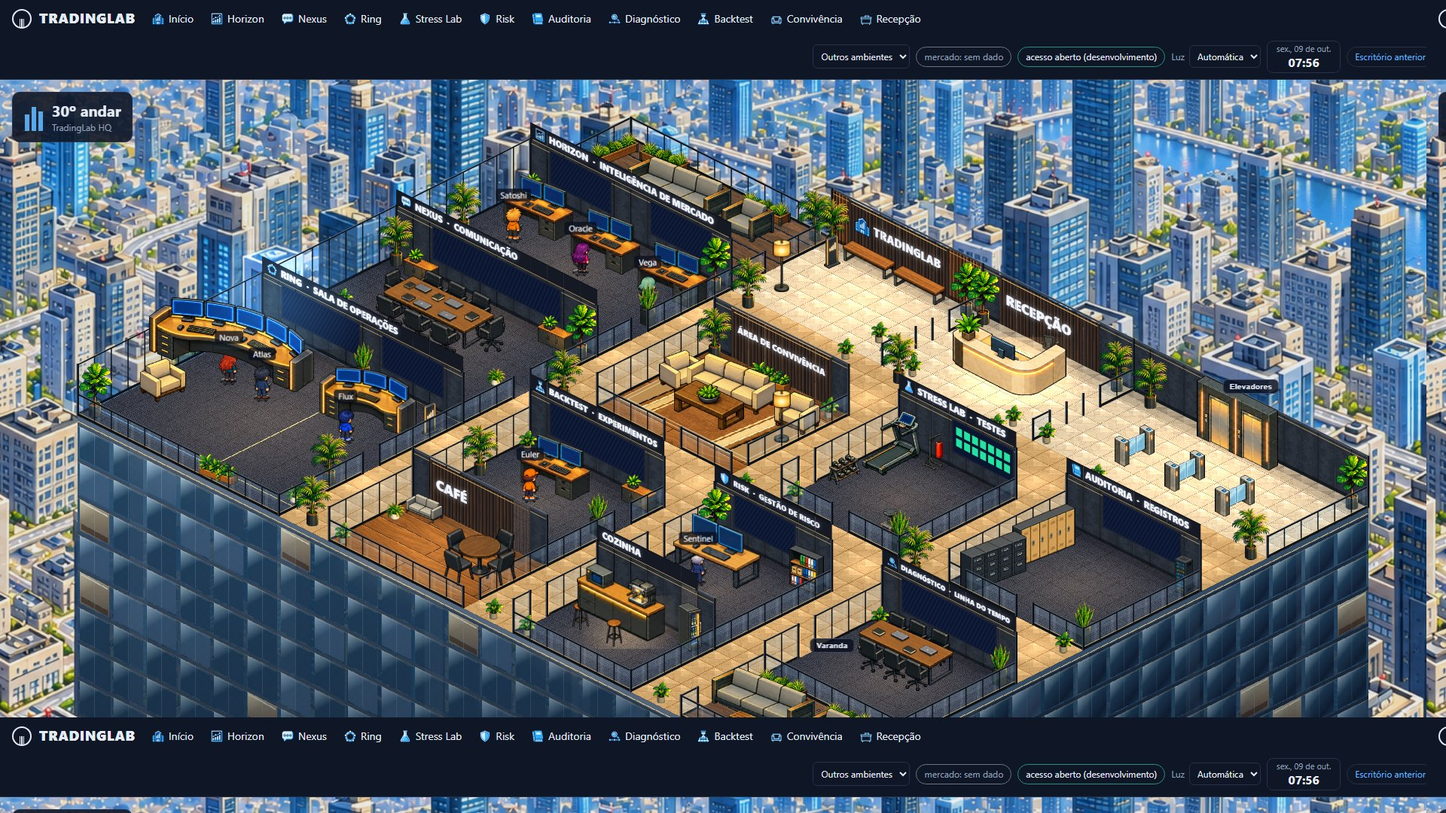
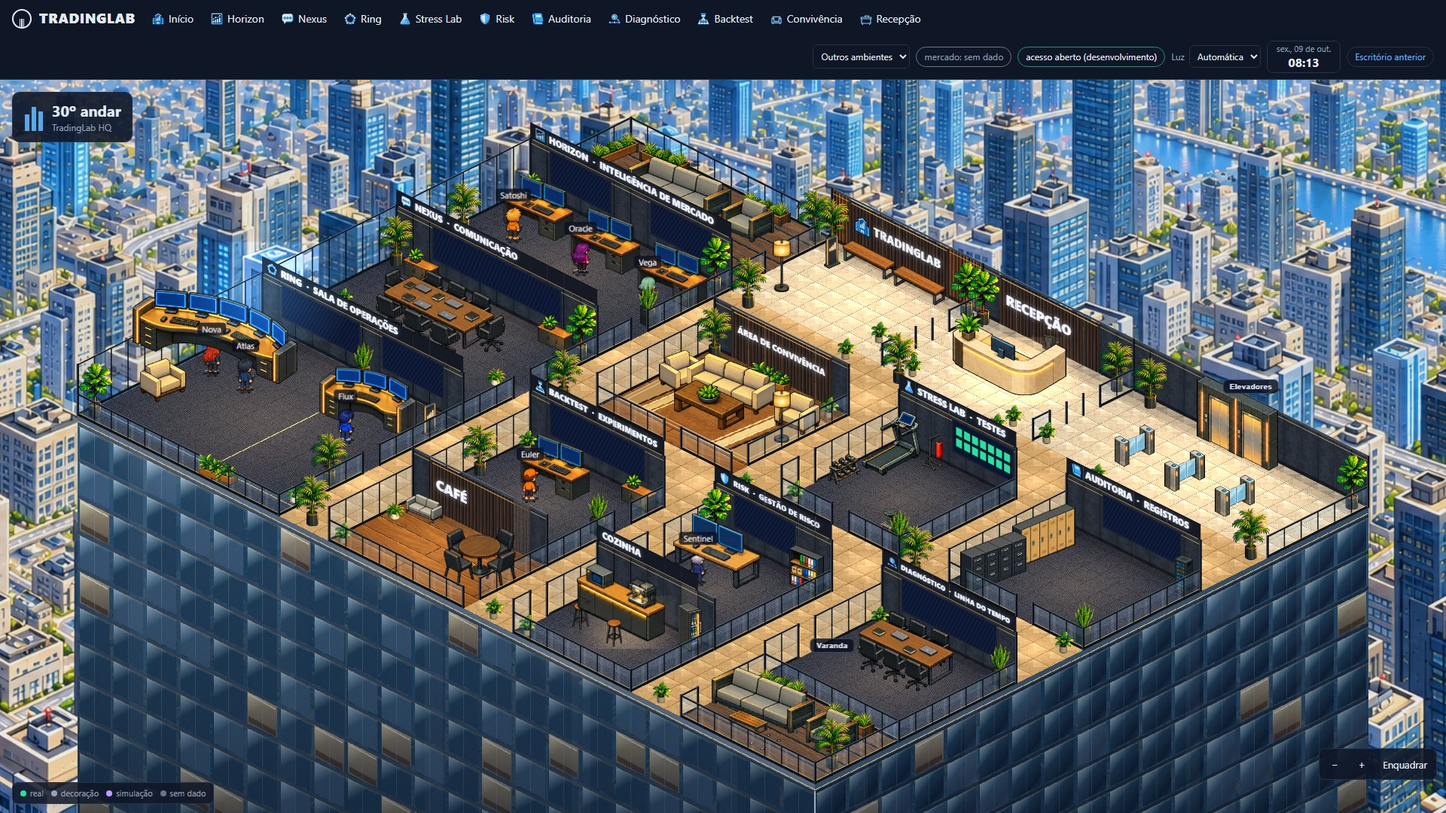
Escritório 2.0: devolve os fantasmas das outras salas e cola o console do Ring no vidro
Os móveis das outras salas voltam a aparecer a 22% quando uma sala está em foco (dão contexto,
e o dono gostava do efeito). O console grande do Ring mantém a orientação, que já estava certa, e
passa a encostar na parede de vidro da esquerda.

Changed region(s): [[0.0, 0.0917, 1.0, 1.0], [0.0938, 0.3361, 0.2188, 0.4889], [0.1562, 0.275, 0.2188, 0.3056]]

diff --git a/public/office2/scene.js b/public/office2/scene.js
@@ -299,7 +299,8 @@
    // Cadeiras dos postos são decoração sobre tiles andáveis, com os mesmos apoios das peças normais.
    for(const p of map.points.filter(p=>p.kind==='WORK'))items.push({key:iso.depth(p.tile.i,p.tile.j)+.2,room:p.room,prop:true,draw:()=>drawProp(ctx,{asset:'cadeira-costas',tile:p.tile,footprint:{a:1,b:1},h:26})});
    for(const ag of agents)items.push({key:iso.depth(ag.pos.i,ag.pos.j)+0.3,room:iso.roomAt(Math.round(ag.pos.i),Math.round(ag.pos.j))?.id,draw:()=>drawAgent(ctx,ag,sheets,charImages)});
-   items.sort((x,y)=>x.key-y.key);for(const it of items){if(focus&&(it.wall||it.prop)&&it.room!==focus)continue;ctx.save();if(focus&&it.room!==focus)ctx.globalAlpha=.22;if(it.fade)ctx.globalAlpha*=.3;it.draw();ctx.restore();}
+   items.sort((x,y)=>x.key-y.key);// Em foco, as paredes das outras salas somem e os móveis delas ficam como "fantasmas" (22% de opacidade): dão contexto sem competir com a sala.
+   for(const it of items){if(focus&&it.wall&&it.room!==focus)continue;ctx.save();if(focus&&it.room!==focus)ctx.globalAlpha=.22;if(it.fade)ctx.globalAlpha*=.3;it.draw();ctx.restore();}
   }
   const topY=Math.min(...wallList.map(w=>P(w.a.i,w.a.j,w.h+HEAD).y));
   return {renderStatic,draw,topY,walls:wallList,posts:postList.map(p=>({i:p.i,j:p.j,h:p.h,door:p.door})),signs:signs.map(s=>s.room),backdrop:createBackdrop(images)};

diff --git a/docs/design/OFFICE_2_F8_PLANTA.md b/docs/design/OFFICE_2_F8_PLANTA.md
@@ -39,7 +39,7 @@ Todas são conferidas por `scripts/assets/office2-layout.mjs` (que recusa gravar
 - **Vidro:** película azulada, brilho diagonal, montantes pretos, travessa grossa e rodapé; os guarda-corpos têm fio âmbar.
 - **Chão:** corredores com tom quente por cima do mármore, sombra suave junto de cada parede alta e luminárias de teto em retículo; poças de luz por sala.
 - **Paredes que escondem agentes** ficam translúcidas enquanto escondem (só para agentes; nenhum dado muda).
-- **Sala em foco:** os móveis das outras salas não são desenhados (sem "fantasmas" translúcidos); as paredes delas também somem.
+- **Sala em foco:** as paredes das outras salas somem e os móveis delas ficam como "fantasmas" translúcidos (22%), que dão contexto sem competir com a sala.
 - **Fachada:** andares com luz quente de escritório, luz de teto nas vidraças, lajes iluminadas por baixo e vidraças frias; sem silhuetas de gente.
 - **Câmera:** a visão geral enquadra a planta (inclusive o alto das placas), o que aumenta o desenho em cerca de 12%. `/office2/#ring` (qualquer id de sala) abre direto na sala.
 
